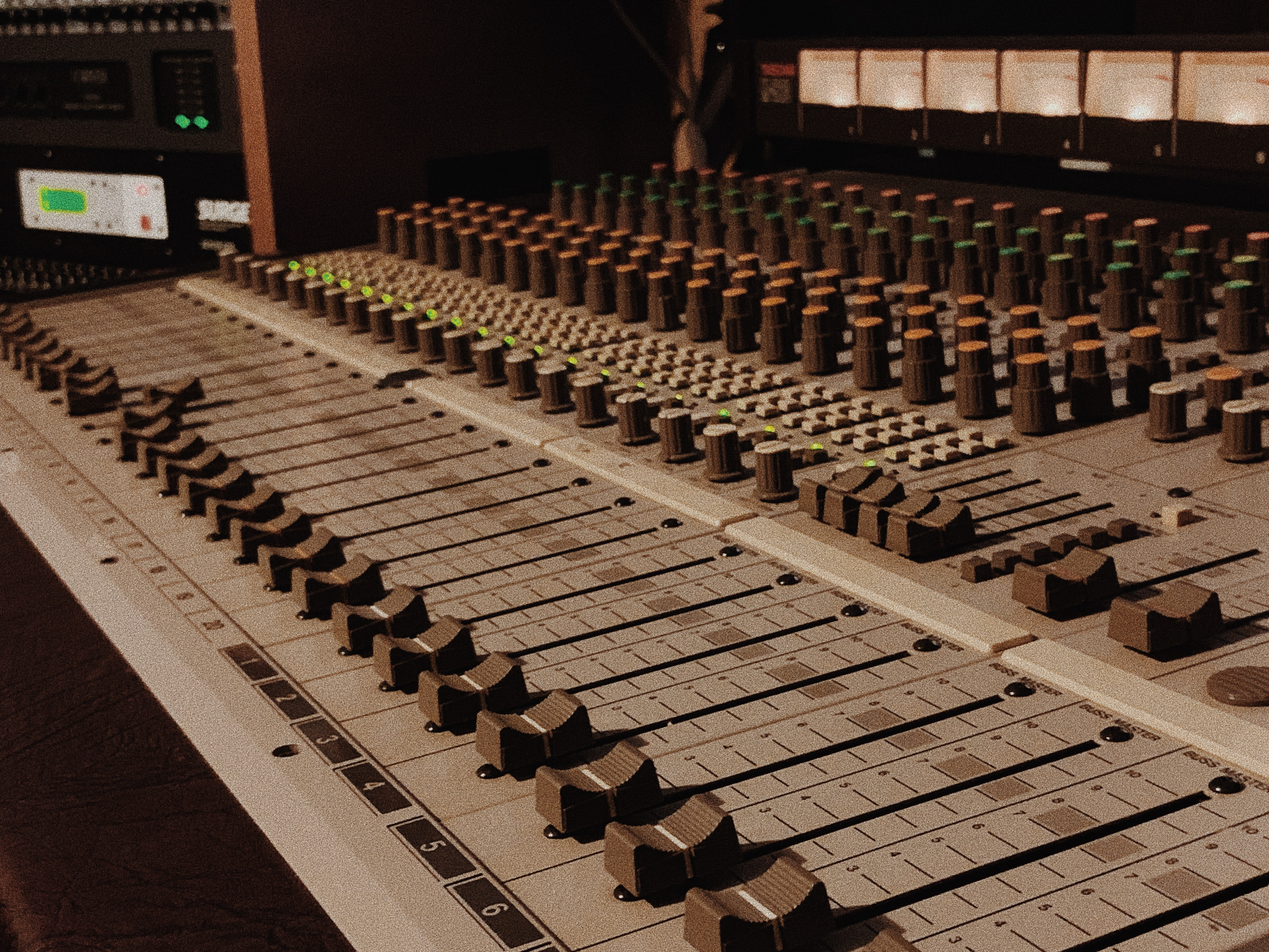
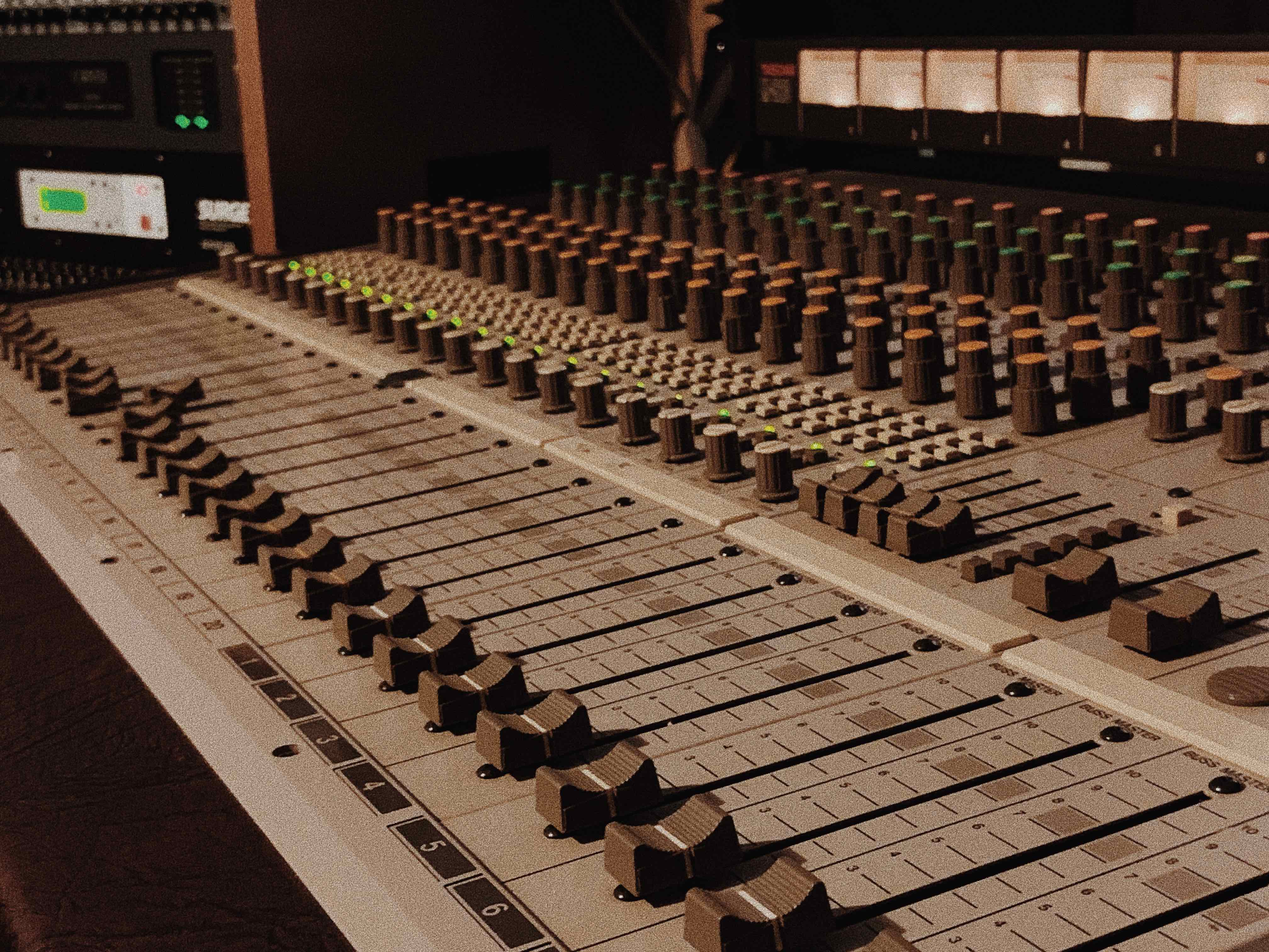
Photos
reduced photo sizes

diff --git a/index.html b/index.html
@@ -65,7 +65,7 @@
 
 								<!--div style="text-align:right"-->
 								<div>
-								<span class="image right"><img src="images/keanu/mixing.jpg" alt="" />
+								<span class="image right"><img src="images/mixing.jpg" alt="" />
 							</div>
 
 							<!--div style="text-align:left"-->

diff --git a/assets/css/main.css b/assets/css/main.css
@@ -9,7 +9,7 @@
 
 /* Reset */
 
-/* image overlay */
+/* image overlay **/
 
 <meta name="viewport" content="width=device-width, initial-scale=1">
 <style>
